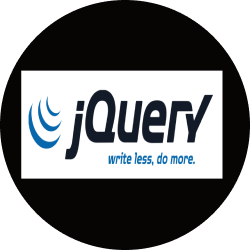
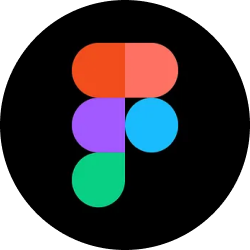
Add files via upload

diff --git a/index.html b/index.html
@@ -221,7 +221,7 @@
 							<span>
 								<img src="./img/skill7.png" alt="">
 								<div>
-									<p>JQUERY</p>
+									<p>FIGMA</p>
 								</div>
 							</span>
 							<span>
